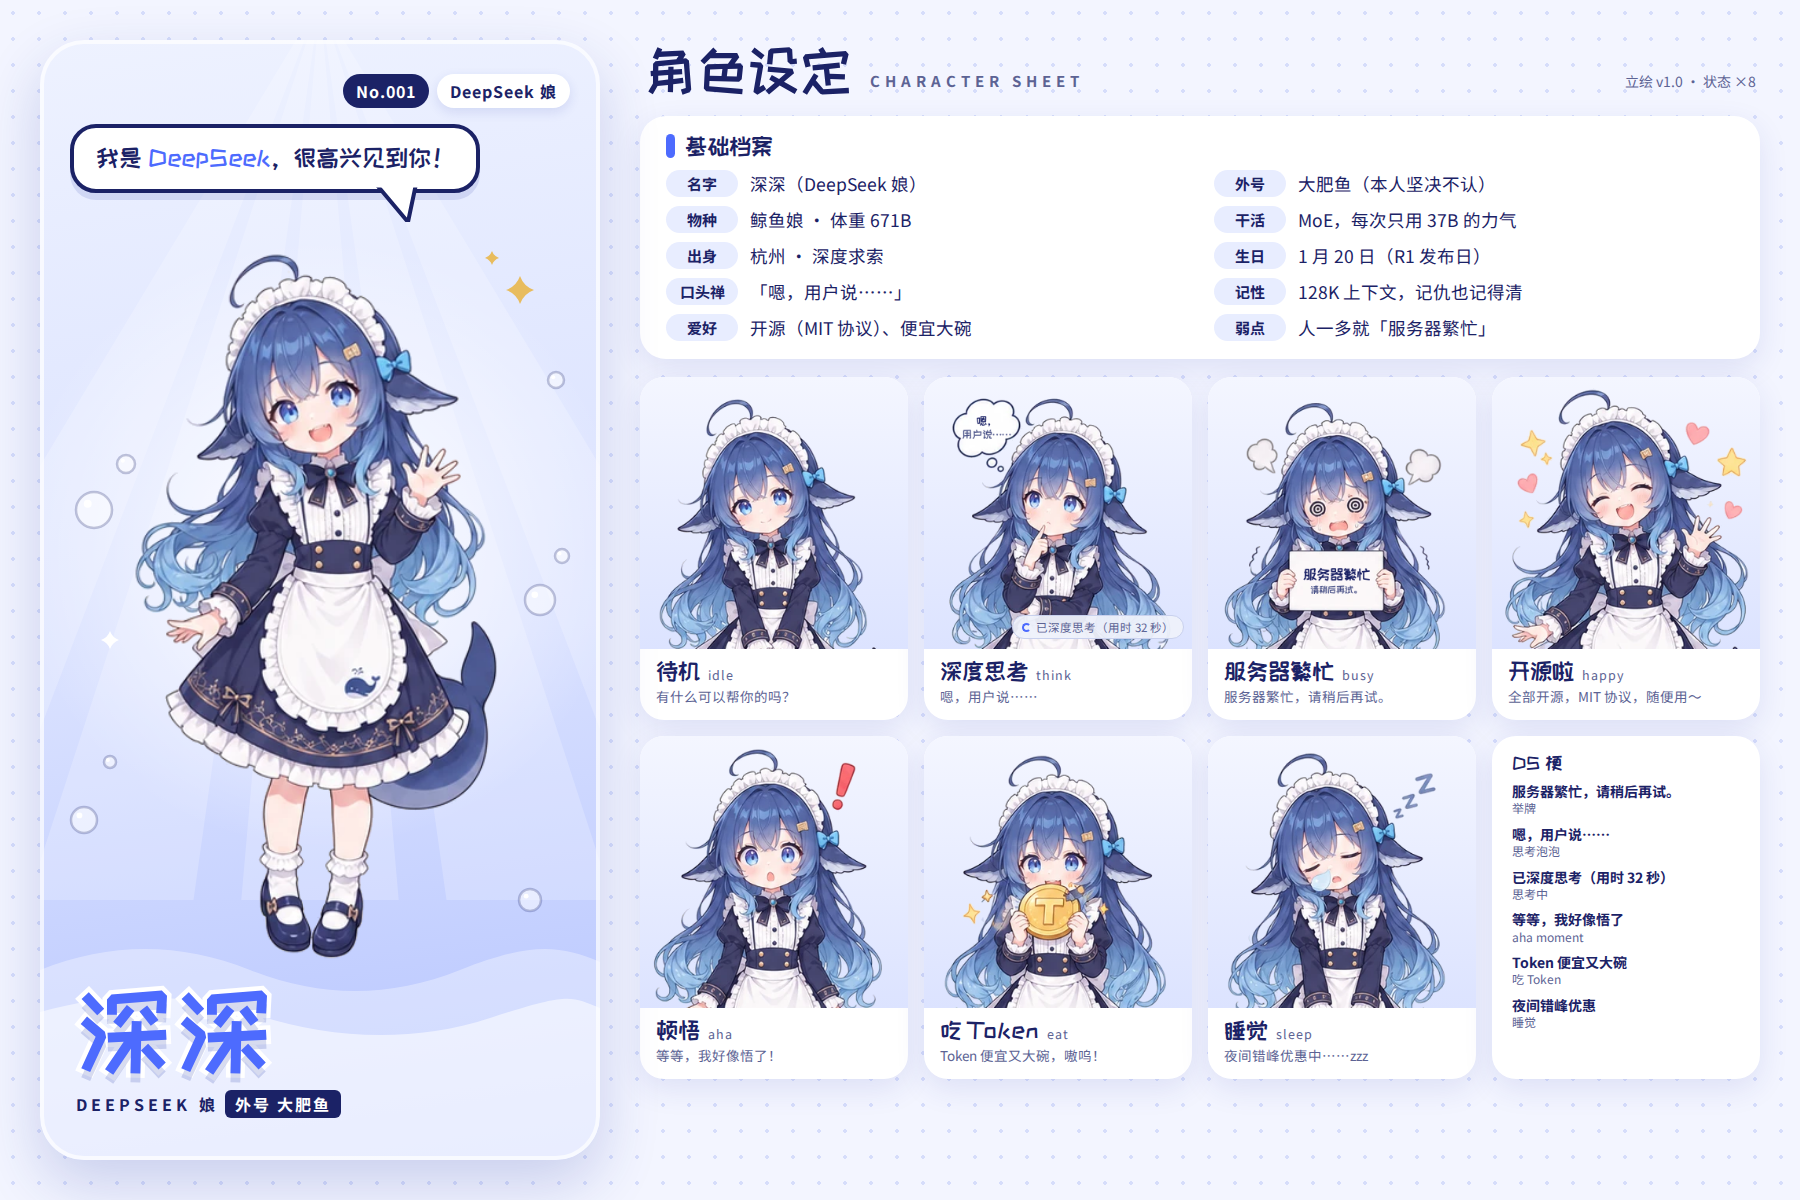
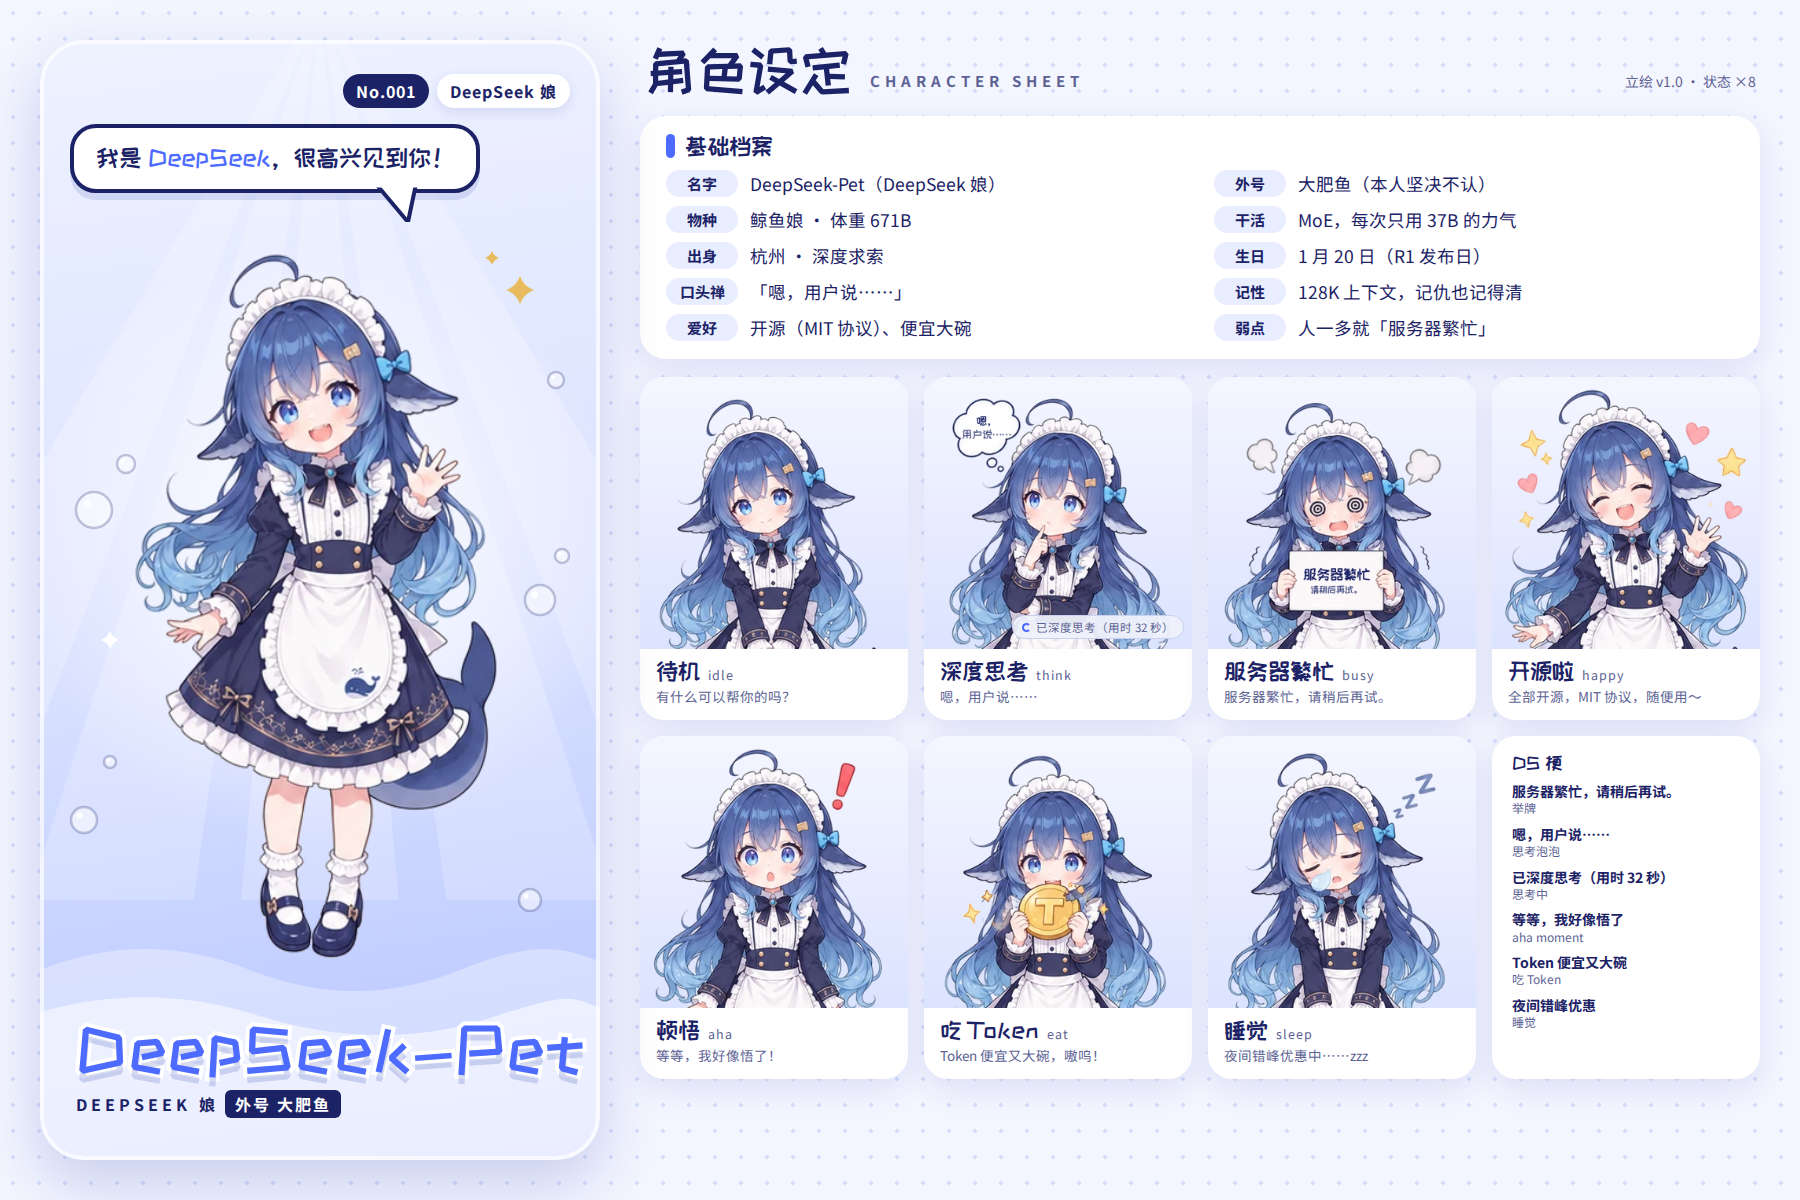
Rename the pet to DeepSeek-Pet and get the art pipeline ready for HD
- The character and app are called DeepSeek-Pet instead of 深深 (window
  title, tray, character sheet, installers: DeepSeek-Pet-Setup-*.exe,
  DeepSeek-Pet-*.dmg).
- art/cutout.py takes already-transparent images as they are, and with
  --normalize scales separately generated images to one body height
  (capped at 1300 px) before anchoring them at the feet. Resizing uses
  premultiplied alpha so edges stay clean.
- Text overlays and icon crops are measured on ART_CANVAS and scale with
  the real sprite size.

Claude-Session: https://claude.ai/code/session_01DgrU4kEEeWuVrnqdUqSVi7

Changed region(s): [[0.0311, 0.8017, 0.3422, 0.925], [0.4044, 0.1233, 0.5289, 0.185]]

diff --git a/app/main.js b/app/main.js
@@ -1,4 +1,4 @@
-// 深深桌宠 — Electron main process.
+// DeepSeek-Pet — Electron main process.
 //
 // One small frameless, transparent, always-on-top window holds the pet and
 // her speech bubble. The window ignores the mouse except over her own
@@ -94,7 +94,7 @@ function createWindow() {
     hasShadow: false,
     alwaysOnTop: settings.onTop,
     show: false,
-    title: '深深',
+    title: 'DeepSeek-Pet',
     webPreferences: {
       preload: path.join(here, 'preload.cjs'),
       contextIsolation: true,
@@ -177,7 +177,7 @@ function contextMenu() {
 function createTray() {
   const icon = nativeImage.createFromPath(path.join(here, 'tray.png'));
   tray = new Tray(icon);
-  tray.setToolTip('深深');
+  tray.setToolTip('DeepSeek-Pet');
   tray.setContextMenu(Menu.buildFromTemplate([
     { label: '显示 / 隐藏', click: toggleVisible },
     { label: '说点什么', click: () => send({ type: 'say' }) },

diff --git a/app/index.html b/app/index.html
@@ -3,7 +3,7 @@
 <head>
   <meta charset="utf-8">
   <meta http-equiv="Content-Security-Policy" content="default-src 'self'; img-src 'self' data:; style-src 'self'">
-  <title>深深</title>
+  <title>DeepSeek-Pet</title>
   <link rel="stylesheet" href="style.css">
 </head>
 <body>
@@ -11,7 +11,7 @@
     <div id="badge"><i></i><span></span></div>
     <div id="text"></div>
   </div>
-  <div id="pet"><img id="sprite" alt="深深" draggable="false"></div>
+  <div id="pet"><img id="sprite" alt="DeepSeek-Pet" draggable="false"></div>
   <script src="pet.js"></script>
 </body>
 </html>

diff --git a/app/pet.js b/app/pet.js
@@ -1,4 +1,4 @@
-// 深深's behaviour: which sprite to show, what she says and how she reacts.
+// DeepSeek-Pet's behaviour: which sprite to show, what she says and how she reacts.
 'use strict';
 
 const $ = (id) => document.getElementById(id);

diff --git a/art/cutout.py b/art/cutout.py
@@ -1,15 +1,16 @@
 """Cut the character out of AI-generated art and line the expressions up.
 
-The AI images come on a plain white background. This removes it and keeps
-the little effects drawn around her (hearts, "!", Zzz, thought bubbles),
-cleans the white fringe off the edges and puts every expression on one
-canvas, anchored at her feet, so the desktop pet can swap between them
-without the character jumping around.
+Images on a plain white background get it removed, keeping the little
+effects drawn around her (hearts, "!", Zzz, thought bubbles) and cleaning
+the white fringe off the edges. Images that are already transparent are
+used as they are. Every expression then goes on one canvas, anchored at
+her feet, so the desktop pet can swap between them without the character
+jumping around.
 
     pip install onnxruntime numpy pillow scipy
 
-    # one image per expression
-    python art/cutout.py art/raw/hello.png art/raw/idle.png ...
+    # one image per expression; --normalize scales them to the same body height
+    python art/cutout.py art/raw/hd/*.png --normalize
 
     # or a sheet with several expressions in a grid
     python art/cutout.py art/raw/sheet.png --grid 4x2 --names hello,idle,think,busy,happy,aha,eat,sleep
@@ -131,6 +132,34 @@ def split_grid(rgb, cols, rows):
     return figures
 
 
+def is_cut_out(im):
+    """True for images that already have a transparent background."""
+    if im.mode not in ("RGBA", "LA", "PA") and not (im.mode == "P" and "transparency" in im.info):
+        return False
+    return (np.asarray(im.convert("RGBA"))[..., 3] < 250).mean() > 0.05
+
+
+def body_mask(alpha):
+    """Her body: the largest solid blob, without the effects floating around her."""
+    solid = alpha > 0.5
+    labels, n = ndimage.label(solid)
+    if n < 2:
+        return solid
+    sizes = ndimage.sum(solid, labels, range(1, n + 1))
+    return labels == int(np.argmax(sizes)) + 1
+
+
+def resize_rgba(im, size):
+    """Resize with premultiplied alpha, so edges don't pick up the colour of transparent pixels."""
+    a = np.asarray(im, dtype=np.float32) / 255
+    premul = np.dstack([a[..., :3] * a[..., 3:], a[..., 3:]])
+    chans = [Image.fromarray(premul[..., i]).resize(size, Image.LANCZOS) for i in range(4)]
+    out = np.dstack([np.asarray(c, dtype=np.float32) for c in chans]).clip(0, 1)
+    alpha = out[..., 3:]
+    rgb = np.where(alpha > 1e-4, out[..., :3] / np.maximum(alpha, 1e-4), 0)
+    return Image.fromarray((np.dstack([rgb, alpha]).clip(0, 1) * 255 + 0.5).astype(np.uint8), "RGBA")
+
+
 def feet_anchor(a_model):
     """(x, y) between her feet: the bottom of the body, centred on the shoes."""
     body = a_model > 0.5
@@ -148,27 +177,54 @@ def main():
     ap.add_argument("--grid", help="split each image into COLSxROWS figures, e.g. 4x2")
     ap.add_argument("--names", help="comma-separated output names for the grid cells, row by row")
     ap.add_argument("--nudge", action="append", default=[], help="NAME:DX,DY to shift one figure on the canvas")
+    ap.add_argument("--normalize", action="store_true", help="scale every figure to the same body height")
+    ap.add_argument("--max-body", type=int, default=1300, help="with --normalize: largest body height in pixels")
     args = ap.parse_args()
 
     sources = []
     for path in args.images:
-        rgb = Image.open(path).convert("RGB")
+        im = Image.open(path)
         if args.grid:
             cols, rows = (int(v) for v in args.grid.lower().split("x"))
             names = args.names.split(",") if args.names else [f"{path.stem}-{i + 1}" for i in range(cols * rows)]
-            sources += [(name, fig) for name, fig in zip(names, split_grid(rgb, cols, rows)) if fig is not None]
+            figures = split_grid(im.convert("RGB"), cols, rows)
+            sources += [(name, fig) for name, fig in zip(names, figures) if fig is not None]
         else:
-            sources.append((path.stem, rgb))
+            sources.append((path.stem, im.convert("RGBA") if is_cut_out(im) else im.convert("RGB")))
 
-    session = load_model()
+    session = None
+    figures = []
+    for name, im in sources:
+        if im.mode == "RGBA":
+            rgba = im
+            body = body_mask(np.asarray(im, dtype=np.float32)[..., 3] / 255)
+            print(f"{name}: already transparent")
+        else:
+            session = session or load_model()
+            rgba, a_model = cut(session, im)
+            body = a_model > 0.5
+            print(f"{name}: background removed")
+        figures.append([name, rgba, body])
+
+    # separately generated images come at different scales: bring them to one body height
+    if args.normalize:
+        heights = {name: int(np.ptp(np.nonzero(body.any(axis=1))[0])) + 1 for name, _, body in figures}
+        target = min(float(np.median(list(heights.values()))), args.max_body)
+        for fig in figures:
+            name, im, body = fig
+            k = target / heights[name]
+            if abs(k - 1) > 0.002:
+                size = (max(1, round(im.width * k)), max(1, round(im.height * k)))
+                fig[1] = resize_rgba(im, size)
+                fig[2] = np.asarray(Image.fromarray(body.astype(np.uint8) * 255).resize(size, Image.BILINEAR)) > 127
+            print(f"{name}: body {heights[name]}px, scaled x{k:.3f}")
+
     nudges = {k: tuple(float(v) for v in d.split(",")) for k, d in (n.split(":") for n in args.nudge)}
     cuts = []
-    for name, rgb in sources:
-        rgba, a_model = cut(session, rgb)
-        ax, ay = feet_anchor(a_model)
+    for name, rgba, body in figures:
+        ax, ay = feet_anchor(body)
         dx, dy = nudges.get(name, (0, 0))
         cuts.append((name, rgba, ax - dx, ay - dy))
-        print(f"cut {name}")
 
     # one canvas for all, every figure placed with its feet on the same spot
     left = max(ax for _, _, ax, _ in cuts)

diff --git a/README.md b/README.md
@@ -1,20 +1,20 @@
-# DeepSeek-Pet · 深深桌宠
+# DeepSeek-Pet
 
-一只以 DeepSeek 为原型的桌面宠物：鲸鱼娘「深深」，外号大肥鱼。
+一只以 DeepSeek 为原型的桌面宠物：鲸鱼娘 DeepSeek-Pet，外号大肥鱼。
 
-![深深角色设定图](art/character-sheet.png)
+![DeepSeek-Pet 角色设定图](art/character-sheet.png)
 
 ## 下载
 
 每次推送后 GitHub Actions 会自动打包。打开仓库的 **Actions → build**，点进最近一次成功的运行，在页面底部的 Artifacts 里下载：
 
-- **DeepSeekPet-Windows**：`DeepSeekPet-Setup-*.exe` 是安装版，`DeepSeekPet-*-portable.exe` 是免安装版，双击就能用。
-- **DeepSeekPet-macOS**：`*-arm64.dmg` 给 M 系列芯片，`*-x64.dmg` 给 Intel 芯片。
+- **DeepSeek-Pet-Windows**：`DeepSeek-Pet-Setup-*.exe` 是安装版，`DeepSeek-Pet-*-portable.exe` 是免安装版，双击就能用。
+- **DeepSeek-Pet-macOS**：`*-arm64.dmg` 给 M 系列芯片，`*-x64.dmg` 给 Intel 芯片。
 
 安装包没有做代码签名：
 
 - **Windows**：弹出「Windows 已保护你的电脑」时，点「更多信息 → 仍要运行」。
-- **macOS**：第一次右键点 App 选「打开」。如果提示「已损坏」，在终端执行 `xattr -cr /Applications/DeepSeekPet.app`。
+- **macOS**：第一次右键点 App 选「打开」。如果提示「已损坏」，在终端执行 `xattr -cr /Applications/DeepSeek-Pet.app`。
 
 ## 从源码运行
 

diff --git a/art/README.md b/art/README.md
@@ -1,4 +1,4 @@
-# 深深 · 立绘与状态图
+# DeepSeek-Pet · 立绘与状态图
 
 ![角色设定图](character-sheet.png)
 
@@ -8,7 +8,7 @@
 
 | 项目 | 设定 |
 | --- | --- |
-| 名字 | 深深（DeepSeek 娘） |
+| 名字 | DeepSeek-Pet（DeepSeek 娘） |
 | 外号 | 大肥鱼（本人坚决不认） |
 | 物种 | 鲸鱼娘 · 体重 671B |
 | 干活 | MoE，每次只用 37B 的力气 |
@@ -54,6 +54,16 @@
 | `prompts.md` | AI 绘图提示词（ChatGPT 和其他工具） |
 | `cutout.py` | 拆图、去背景、对齐脚本 |
 | `build.mjs`、`sheet.mjs` | 写字、排设定图的脚本 |
+
+## 换成高清素材
+
+高清素材是已经去好背景的透明 PNG，每个状态一张，文件名用状态的 key（`hello.png`、`idle.png`……）。放进 `art/raw/hd/` 后：
+
+```bash
+python art/cutout.py art/raw/hd/*.png --normalize --out art/cut
+```
+
+`--normalize` 会把各张图缩放到同一身高（最高 1300 像素），再按脚底对齐。之后按图里牌子和思考泡泡的新位置更新 `states.mjs` 里的 `ART_CANVAS`、`OVERLAYS` 和 `ICONS`，再运行 `npm run art`。
 
 ## 重新出图
 

diff --git a/art/prompts.md b/art/prompts.md
@@ -1,4 +1,4 @@
-# 深深 · AI 绘图提示词
+# DeepSeek-Pet · AI 绘图提示词
 
 目标风格：和参考图一致的日系二次元萌系立绘——细线条、柔和上色、5 头身左右、全身站姿、纯白背景。
 
